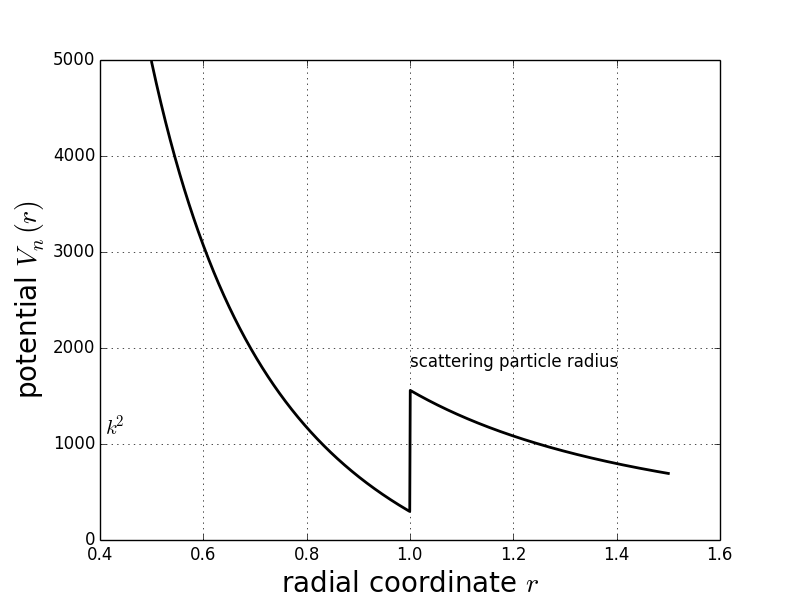
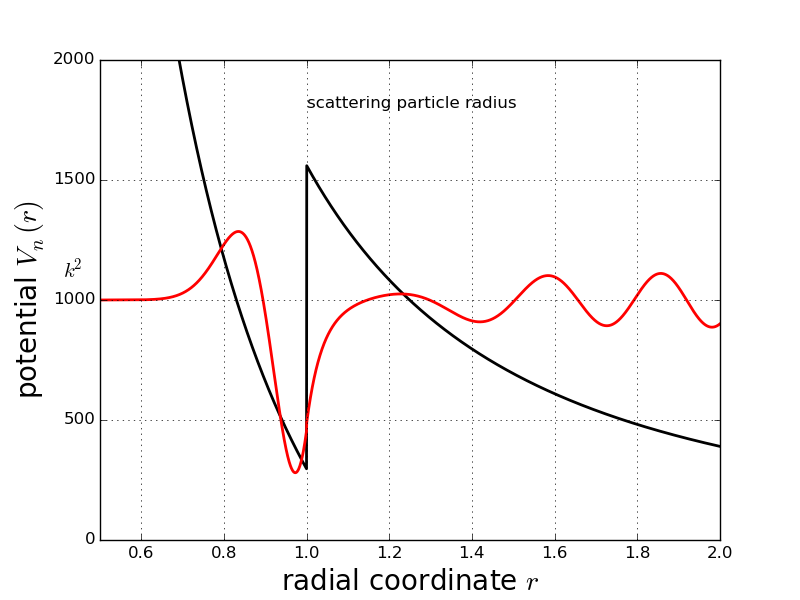
First working plot of radial wave function.

diff --git a/MDRplot.py b/MDRplot.py
@@ -14,6 +14,12 @@
 #	- Radial potential plot (2015-11-02,PST)
 #	- Radial wave function evaluation & plot (2015-11-11,PST)
 #
+#	Programmer's Comments:
+#	----------------------
+#	
+#	1. The Bessel functions from Scipy always return a
+#		tuple with shape [1][n]. Undocumented "feature".
+# 
 
 # import modules
 import numpy as np 			# NumPy
@@ -27,9 +33,9 @@ from pylab import * 			# Matplotlib's pylab
 global m,n,k,a
 m = 1.47 						# refractive index
 n = 40 							# order
-k = 33.0 						# wave number
+k = 33. 						# wave number
 a = 1.0 						# particle radius
-r = np.linspace(0.5,1.5,2000) 	# radial coordinate
+r = np.linspace(0.5,2.0,3000) 	# radial coordinate
 
 # calculate potential
 def potential(radi):
@@ -49,6 +55,9 @@ V = vecV(r)
 	#V[ii] = potential(r[ii])
 
 plt.plot(r,V,'k-',linewidth=2)
+axes = plt.gca()
+axes.set_xlim([0.5,2.0])
+axes.set_ylim([0.,2000.])
 plt.text(a, 1800, 'scattering particle radius')
 plt.text(0.41, k*k, '$k^2$',fontsize=15)
 plt.xlabel('radial coordinate $r$',fontsize=20)
@@ -57,15 +66,52 @@ plt.grid('on'), plt.box('on')
 
 # radial wave function TE (eq. 12)
 radwavefunc = np.zeros(r.shape,dtype=float)
-beta_n = (m*k*a*sp.special.riccati_jn(n,m*k*a)[1][n] - k*a*sp.special.riccati_yn(n,k*a)[1][n]) \
-		/(k*a*sp.special.riccati_jn(n,(k*a))[1][n])
+
+# First derivative of the Riccati-Bessel function
+# of the first kind based on the spherical Bessel
+# function.
+def Psiprime(n,x):
+	def jp(n,x):
+		jderiv = sp.special.sph_jn(n,x)[1][n-1] \
+				-(n+1)/x*sp.special.sph_jn(n,x)[1][n]
+		return jderiv
+	pp = sp.special.sph_jn(n,x)[1][n]+x*jp(n,x)
+	return pp
+
+# First derivative of the Riccati-Bessel function
+# of the second kind based on the corresponding
+# spherical Bessel function.
+def Xiprime(n,x):
+	def yp(n,x):
+		yderiv = sp.special.sph_yn(n,x)[1][n-1] \
+				-(n+1)/x*sp.special.sph_yn(n,x)[1][n]
+		return yderiv
+
+	pp = sp.special.sph_yn(n,x)[1][n]+x*yp(n,x)
+	return -1.0*pp
+
+# Bn from continuity of the first derivative
+Bn = (m*Psiprime(n,m*k*a)\
+	-sp.special.riccati_jn(n,(m*k*a))[1][n]/sp.special.riccati_jn(n,(m*k*a))[1][n]*Psiprime(n,k*a))\
+	/(Xiprime(n,k*a)\
+	-sp.special.riccati_yn(n,k*a)[1][n]/sp.special.riccati_jn(n,k*a)[1][n]*Psiprime(n,k*a))
+
+print 'Bn = ', Bn
+
+# beta_n from continuity of the radial wave function at the interface
+beta_n = (sp.special.riccati_yn(n,m*k*a)[1][n]/Bn - sp.special.riccati_jn(n,k*a)[1][n]) \
+		/(sp.special.riccati_yn(n,(k*a))[1][n])
+
+print 'beta_n = ', beta_n
+
 for ii in range(1,r.size):
 	if r[ii] > a:
-		radwavefunc[ii] = (k*r[ii])*sp.special.riccati_yn(n,(k*r[ii]))[1][n] \
-						+ beta_n*(k*r[ii])*sp.special.riccati_jn(n,(k*r[ii]))[1][n]
+		radwavefunc[ii] = Bn*(sp.special.riccati_jn(n,(k*r[ii]))[1][n] \
+						+ beta_n*sp.special.riccati_yn(n,(k*r[ii]))[1][n])
 	elif r[ii] <= a:
-		radwavefunc[ii] = (m*k*r[ii])*sp.special.riccati_jn(n,(m*k*r[ii]))[1][n]
+		radwavefunc[ii] = sp.special.riccati_jn(n,(m*k*r[ii]))[1][n]
 
-plt.plot(r,radwavefunc,'r-',linewidth=2)
+scalingfactor = 1000.
+plt.plot(r,scalingfactor*radwavefunc+scalingfactor,'r-',linewidth=2)
 
 plt.show()
